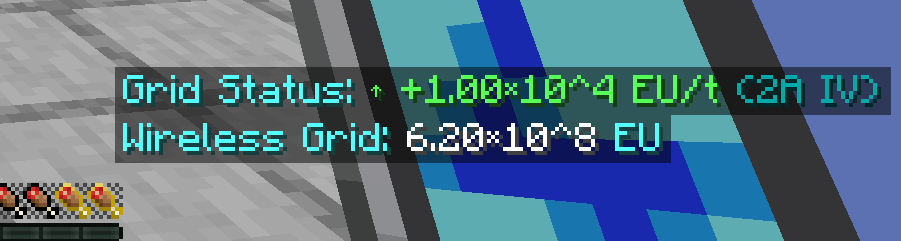
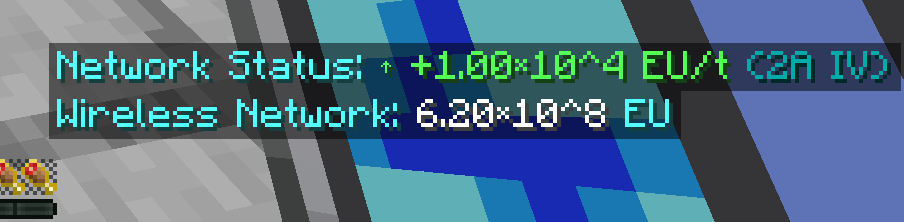
0.1.1-p2

diff --git a/src/main/java/com/miaokatze/gtswn/common/hud/WirelessMonitorHUD.java b/src/main/java/com/miaokatze/gtswn/common/hud/WirelessMonitorHUD.java
@@ -65,14 +65,16 @@ public class WirelessMonitorHUD extends Gui {
     private static long lastInventoryCheckTick = 0;
 
     /** 缓存的无线电网能量值 */
-    private static String cachedEUText = "无线电网: 0 EU";
+    private static String cachedEUText = "§b" + StatCollector.translateToLocal("gtswn.hud.wireless.network")
+        + ": §f0 §b"
+        + StatCollector.translateToLocal("gtswn.hud.eu.unit");
 
     /** 是否已初始化（用于进退客户端时恢复状态） */
     private static boolean initialized = false;
 
     /**
      * 设置 HUD 显示状态
-     * 
+     *
      * @param enabled   是否启用 HUD
      * @param ownerUUID 拥有者 UUID（可选）
      */
@@ -85,7 +87,7 @@ public class WirelessMonitorHUD extends Gui {
 
     /**
      * 设置 HUD 显示模式
-     * 
+     *
      * @param mode 显示模式（0=关闭，1=常规计数，2=科学计数）
      */
     public static void setDisplayMode(int mode) {
@@ -96,7 +98,7 @@ public class WirelessMonitorHUD extends Gui {
 
     /**
      * 获取 HUD 全局开关状态
-     * 
+     *
      * @return 当前 HUD 是否启用
      */
     public static boolean isEnabled() {
@@ -230,7 +232,7 @@ public class WirelessMonitorHUD extends Gui {
 
     /**
      * 遍历玩家背包查找便携监测终端
-     * 
+     *
      * @param player 玩家实体
      * @return 拥有者 UUID，如果未找到则返回 null
      */
@@ -264,7 +266,7 @@ public class WirelessMonitorHUD extends Gui {
 
     /**
      * 检查监测终端是否已绑定
-     * 
+     *
      * @param stack 物品堆栈
      * @return 是否已绑定
      */
@@ -365,15 +367,15 @@ public class WirelessMonitorHUD extends Gui {
     private static String calculateEUT(long currentTick) {
         // 如果连续无变化次数超过阈值，显示“暂无变化”
         if (unchangedCount >= MAX_UNCHANGED_COUNT) {
-            return "§b" + StatCollector.translateToLocal("gtswn.hud.grid.status")
+            return "§b" + StatCollector.translateToLocal("gtswn.hud.network.status")
                 + ": §f"
-                + StatCollector.translateToLocal("gtswn.hud.grid.no.change");
+                + StatCollector.translateToLocal("gtswn.hud.network.no.change");
         }
 
         if (measurementHistory.size() < 2) {
-            return "§b" + StatCollector.translateToLocal("gtswn.hud.grid.status")
+            return "§b" + StatCollector.translateToLocal("gtswn.hud.network.status")
                 + ": §f"
-                + StatCollector.translateToLocal("gtswn.hud.grid.no.change");
+                + StatCollector.translateToLocal("gtswn.hud.network.no.change");
         }
 
         // 获取最新的两个变化点
@@ -436,7 +438,7 @@ public class WirelessMonitorHUD extends Gui {
             status = "§f= 0.00 " + StatCollector.translateToLocal("gtswn.hud.eut.unit");
         }
 
-        return "§b" + StatCollector.translateToLocal("gtswn.hud.grid.status") + ": " + status;
+        return "§b" + StatCollector.translateToLocal("gtswn.hud.network.status") + ": " + status;
     }
 
     /**
@@ -529,7 +531,7 @@ public class WirelessMonitorHUD extends Gui {
 
     /**
      * 将 EU/t 转换为 GT 的电流+电压等级格式
-     * 
+     *
      * @param euPerTick 每秒能量变化率
      * @return 格式化后的字符串（例如：2A HV）
      */
@@ -561,7 +563,7 @@ public class WirelessMonitorHUD extends Gui {
 
     /**
      * 格式化为常规计数（带逗号分隔）
-     * 
+     *
      * @param value 要格式化的 BigInteger 值
      * @return 格式化后的字符串（例如：269,835,880）
      */
@@ -586,7 +588,7 @@ public class WirelessMonitorHUD extends Gui {
 
     /**
      * 格式化 double 为常规计数（带逗号分隔，保留两位小数）
-     * 
+     *
      * @param value 要格式化的 double 值
      * @return 格式化后的字符串（例如：1,234.56）
      */
@@ -624,7 +626,7 @@ public class WirelessMonitorHUD extends Gui {
     /**
      * 格式化为科学计数法字符串
      * 保留三位有效数字，使用 10^幂 格式
-     * 
+     *
      * @param value 要格式化的 BigInteger 值
      * @return 格式化后的字符串（例如：2.70×10^8）
      */

diff --git a/src/main/java/com/miaokatze/gtswn/recipe/CraftingRecipes.java b/src/main/java/com/miaokatze/gtswn/recipe/CraftingRecipes.java
@@ -1,6 +1,7 @@
 package com.miaokatze.gtswn.recipe;
 
 import static com.miaokatze.gtswn.common.api.enums.GTSWNItemList.Portable_Wireless_Network_Monitor;
+import static com.miaokatze.gtswn.common.api.enums.GTSWNItemList.Wireless_Energy_Monitor;
 
 import net.minecraft.item.ItemStack;
 import net.minecraft.item.crafting.CraftingManager;
@@ -36,6 +37,8 @@ public class CraftingRecipes {
     private static void registerAllRecipes() {
         // 便携无线监测终端
         addPortableMonitorRecipe();
+        // 无线能量监视器（工作台版）
+        addWirelessEnergyMonitorRecipe();
     }
 
     /**
@@ -76,5 +79,45 @@ public class CraftingRecipes {
             .add(recipe);
 
         GTSimpleWirelessNetwork.LOG.info("已添加便携无线监测终端合成配方");
+    }
+
+    /**
+     * 添加无线能量监视器的合成配方
+     * <p>
+     * 合成表（与便携版类似，但中间改为 LV 机械外壳）：
+     * LV发射器 | 钢外壳 | LV接收器
+     * LV发射器 | LV机械外壳 | LV接收器
+     * 钢螺丝 | 钢外壳 | 钢螺丝
+     */
+    private static void addWirelessEnergyMonitorRecipe() {
+        // 获取原材料
+        ItemStack lvEmitter = ItemList.Emitter_LV.get(1); // LV发射器
+        ItemStack lvReceiver = ItemList.Sensor_LV.get(1); // LV接收器
+        ItemStack steelPlate = GTOreDictUnificator.get(OrePrefixes.plate, Materials.Steel, 1); // 钢外壳
+        ItemStack steelScrew = GTOreDictUnificator.get(OrePrefixes.screw, Materials.Steel, 1); // 钢螺丝
+        ItemStack lvHull = ItemList.Hull_LV.get(1); // LV机械外壳
+
+        // 使用 Forge 的 ShapedOreRecipe 添加合成配方
+        net.minecraftforge.oredict.ShapedOreRecipe recipe = new net.minecraftforge.oredict.ShapedOreRecipe(
+            Wireless_Energy_Monitor.get(1),
+            "ABC",
+            "ADC",
+            "EBE",
+            'A',
+            lvEmitter,
+            'B',
+            steelPlate,
+            'C',
+            lvReceiver,
+            'D',
+            lvHull,
+            'E',
+            steelScrew);
+
+        CraftingManager.getInstance()
+            .getRecipeList()
+            .add(recipe);
+
+        GTSimpleWirelessNetwork.LOG.info("已添加无线能量监视器合成配方");
     }
 }

diff --git a/src/main/java/com/miaokatze/gtswn/common/machine/MTEWirelessEnergyMonitor.java b/src/main/java/com/miaokatze/gtswn/common/machine/MTEWirelessEnergyMonitor.java
@@ -68,7 +68,12 @@ public class MTEWirelessEnergyMonitor extends MTEBasicGenerator {
 
     // 构造函数:用于注册
     public MTEWirelessEnergyMonitor(int aID, String aName, String aNameRegional) {
-        super(aID, aName, aNameRegional, 1, new String[0]);
+        super(
+            aID,
+            aName,
+            aNameRegional,
+            1,
+            new String[] { "§b用于监测无线网络，智能计算网络功率", "§b智能输出红石信号，可切换多模式", "§9来源MOD：GTSimpleWirelessNetwork" });
     }
 
     // 拷贝构造函数
@@ -131,7 +136,7 @@ public class MTEWirelessEnergyMonitor extends MTEBasicGenerator {
             cachedModeText = displayMode == 0 ? translate("gtswn.ui.mode.normal")
                 : translate("gtswn.ui.mode.scientific");
             cachedEUText = getWirelessEUText();
-            cachedStatusText = getGridStatusText();
+            cachedStatusText = getnetworkStatusText();
             cachedRedstoneModeText = getRedstoneModeText();
             cachedRedstoneOutputText = redstoneOutput ? translate("gtswn.ui.redstone.output.on")
                 : translate("gtswn.ui.redstone.output.off");
@@ -318,17 +323,17 @@ public class MTEWirelessEnergyMonitor extends MTEBasicGenerator {
     }
 
     // 获取电网状态文本（与 HUD 保持一致）
-    private String getGridStatusText() {
+    private String getnetworkStatusText() {
         if (euPerTick > 0.01) {
             String euPerTickStr = formatEUtValue(euPerTick);
             String gtPowerText = formatGTPower(euPerTick);
-            return translate("gtswn.ui.grid.status.up", euPerTickStr, gtPowerText);
+            return translate("gtswn.ui.network.status.up", euPerTickStr, gtPowerText);
         } else if (euPerTick < -0.01) {
             String euPerTickStr = formatEUtValue(Math.abs(euPerTick));
             String gtPowerText = formatGTPower(Math.abs(euPerTick));
-            return translate("gtswn.ui.grid.status.down", euPerTickStr, gtPowerText);
+            return translate("gtswn.ui.network.status.down", euPerTickStr, gtPowerText);
         } else {
-            return translate("gtswn.ui.grid.status.nochange");
+            return translate("gtswn.ui.network.status.nochange");
         }
     }
 

diff --git a/src/main/java/com/miaokatze/gtswn/common/items/PortableWirelessNetworkMonitor.java b/src/main/java/com/miaokatze/gtswn/common/items/PortableWirelessNetworkMonitor.java
@@ -204,10 +204,12 @@ public class PortableWirelessNetworkMonitor extends Item {
         String euFormatted = formatBigInteger(wirelessEU);
 
         // 发送聊天消息
-        aPlayer.addChatMessage(new ChatComponentText("§b[便携监测终端] 拥有者的无线电网能量: §f" + euFormatted + " §bEU"));
+        String energyMsg = StatCollector.translateToLocalFormatted("gtswn.chat.monitor.energy", euFormatted);
+        aPlayer.addChatMessage(new ChatComponentText(energyMsg));
 
         // 额外提示：如何更新拥有者
-        aPlayer.addChatMessage(new ChatComponentText("§7提示: Shift + 右击可更新拥有者"));
+        String hintMsg = StatCollector.translateToLocal("gtswn.chat.monitor.rebind.hint");
+        aPlayer.addChatMessage(new ChatComponentText(hintMsg));
     }
 
     /**

diff --git a/README.md b/README.md
@@ -3,7 +3,7 @@
 
 | 说明 | Description |
 | --- | --- |
-| 目前增加了便携无线监测终端。适配版本 GTNH 2.8.x。 | Portable Wireless Network Monitor added. Target compatibility: GTNH 2.8.x. |
+| 添加了便携与机器版的无线监测终端，均可在LV阶段合成，具有电网智能记录分析与红石逻辑信号输出功能。适配版本 GTNH 2.8.x。 | Added portable and machine versions of wireless network monitors, both craftable at LV tier, featuring intelligent grid analysis and redstone logic signal output. Target compatibility: GTNH 2.8.x. |
 
 ## 功能介绍  Features
 
